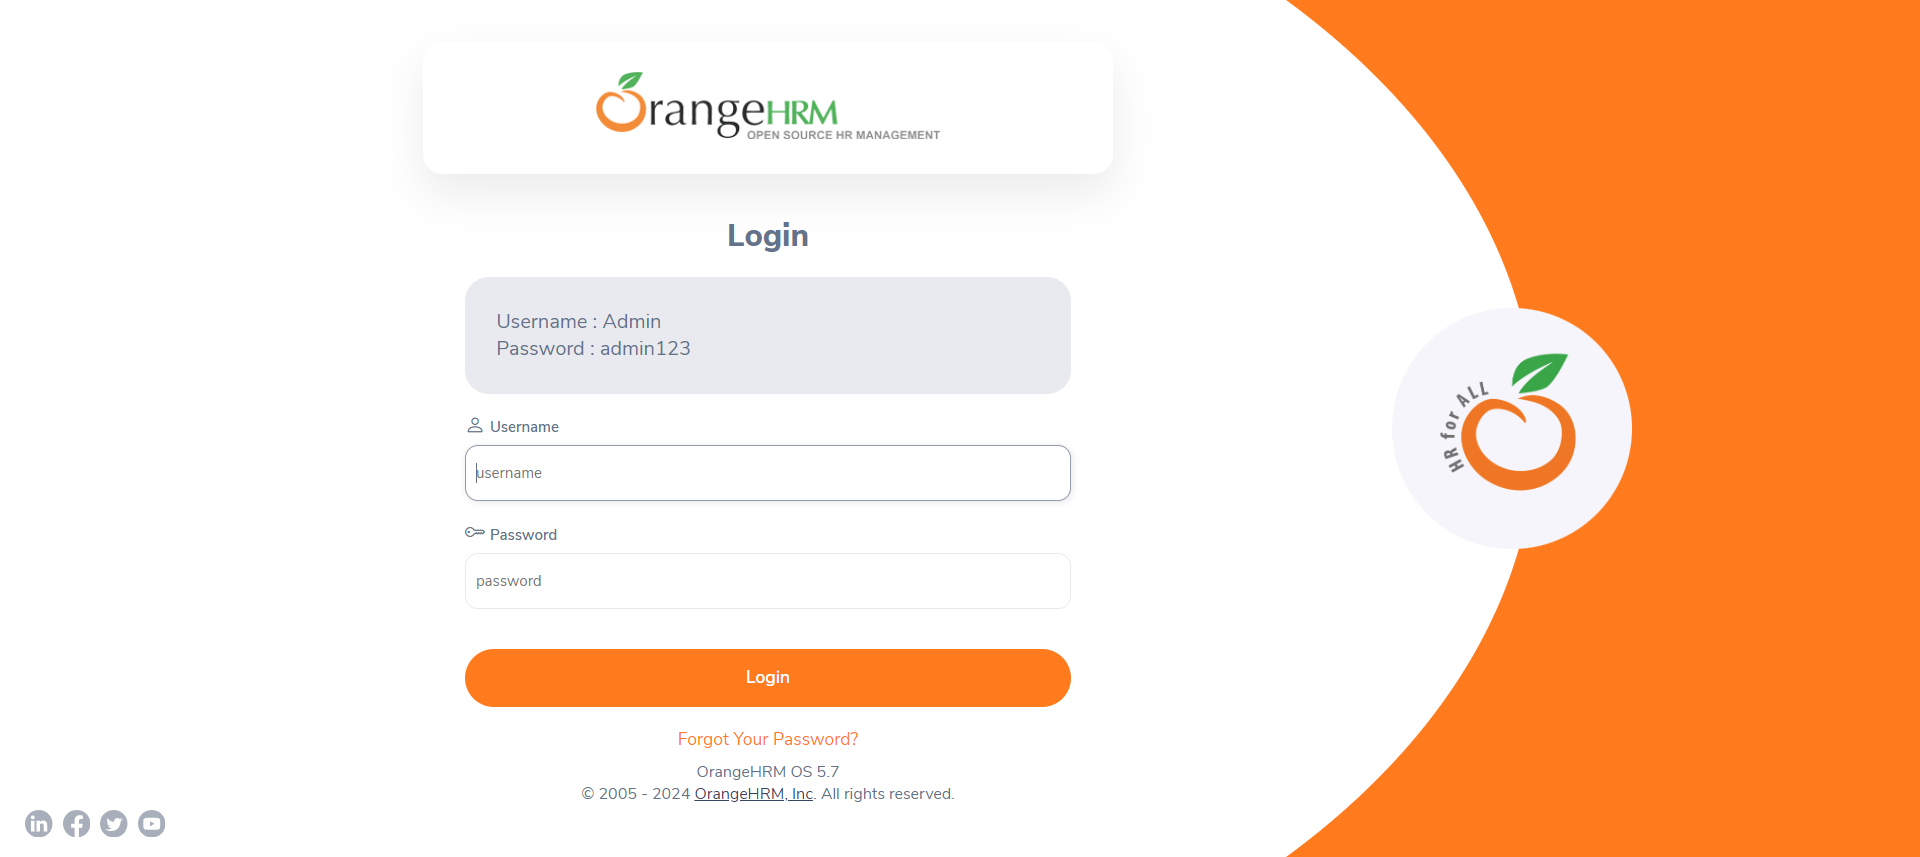
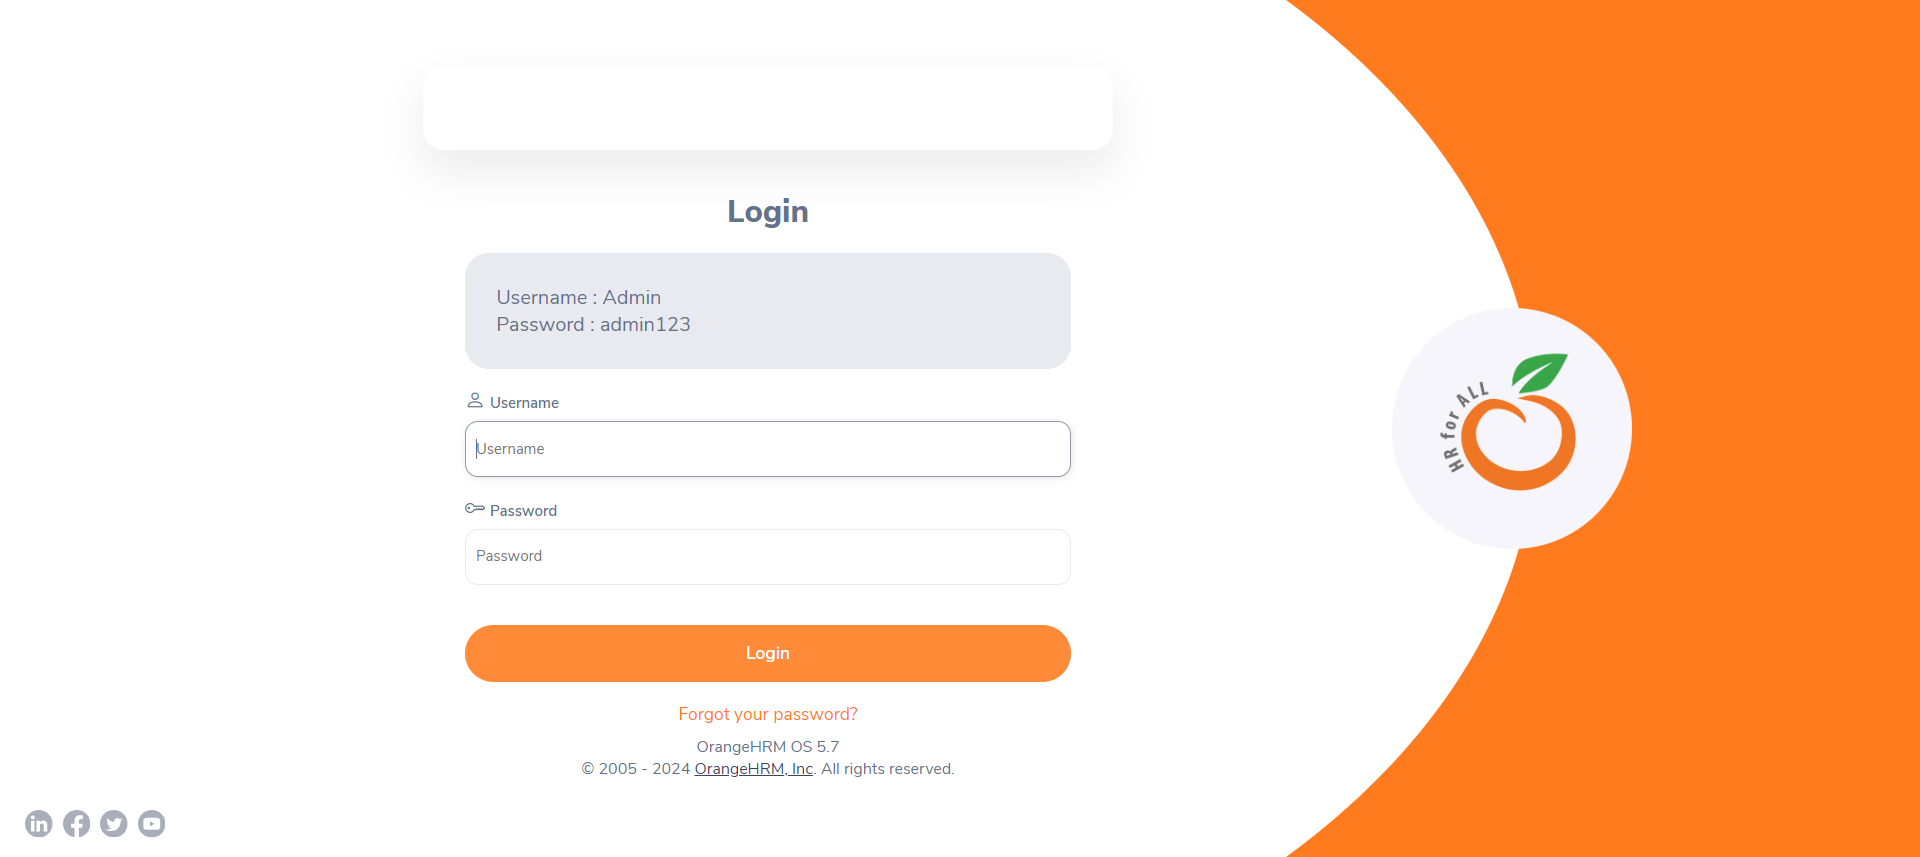
My 2nd commint

diff --git a/pageObjects/AddEmployee.py b/pageObjects/AddEmployee.py
@@ -8,8 +8,8 @@ class AddEmployee:
     # for clicking on add
     button_ADD_xpath = "//button[normalize-space()='Add']"
     button_Add_Employee = "//a[normalize-space()='Add Employee']"
-    text_fName_xpath = "//input[@placeholder='First name']"
-    text_mName_xpath = "//input[@placeholder='Middle name']"
+    text_fName_xpath = "//input[@placeholder='First Name']"
+    text_mName_xpath = "//input[@placeholder='Middle Name']"
     text_lName_xpath = "//input[@placeholder='Last Name']"
     input_empID_xpath = "//div[@class='oxd-input-group oxd-input-field-bottom-space']//div//input[@class='oxd-input oxd-input--active']"
     select_create_login_details_xpath = "//span[@class='oxd-switch-input oxd-switch-input--active --label-right']"
@@ -34,28 +34,28 @@ class AddEmployee:
         self.driver.find_element(By.XPATH, self.button_ADD_xpath).click()
 
     def click_on_add_employee_icon(self):
-        self.driver.find_element(By.XPATH, self.button_Add_Employee)
+        self.driver.find_element(By.XPATH, self.button_Add_Employee).click()
 
-    def enter_first_name(self):
-        self.driver.find_element(By.XPATH, self.text_fName_xpath).sendkeys()
+    def enter_first_name(self, first_name):
+        self.driver.find_element(By.XPATH, self.text_fName_xpath).send_keys(first_name)
 
-    def enter_mid_name(self):
-        self.driver.find_element(By.XPATH, self.text_mName_xpath).sendkeys()
+    def enter_mid_name(self, mid_name):
+        self.driver.find_element(By.XPATH, self.text_mName_xpath).send_keys(mid_name)
 
-    def enter_last_name(self):
-        self.driver.find_element(By.XPATH, self.text_lName_xpath).sendkeys()
+    def enter_last_name(self, last_name):
+        self.driver.find_element(By.XPATH, self.text_lName_xpath).send_keys(last_name)
 
     def emp_id(self):
         self.driver.find_element(By.XPATH, self.input_empID_xpath).clear()
 
     def enter_username(self):
-        self.driver.find_element(By.XPATH, self.text_username_xpath).sendkeys()
+        self.driver.find_element(By.XPATH, self.text_username_xpath).send_keys()
 
     def enter_password(self):
-        self.driver.find_element(By.XPATH, self.text_password_xpath).sendkeys()
+        self.driver.find_element(By.XPATH, self.text_password_xpath).send_keys()
 
     def enter_confirm_password(self):
-        self.driver.find_element(By.XPATH, self.text_confirm_password_xpath).sendkeys()
+        self.driver.find_element(By.XPATH, self.text_confirm_password_xpath).send_keys()
 
     def click_on_save_button(self):
         self.driver.find_element(By.XPATH, self.button_save_xpath).click()
@@ -64,7 +64,7 @@ class AddEmployee:
         self.driver.find_element(By.XPATH, self.emp_list_xpath).click()
 
     def enter_employee_name(self):
-        self.driver.find_element(By.XPATH, self.emp_name_xpath).sendkeys()
+        self.driver.find_element(By.XPATH, self.emp_name_xpath).send_keys()
 
     def click_on_search_icon(self):
         self.driver.find_element(By.XPATH, self.search_button_xpath).click()

diff --git a/testCases/test_add_employee_functionality.py b/testCases/test_add_employee_functionality.py
@@ -12,11 +12,17 @@ class TestAddEmployee:
     username = ReadConfig.get_username()
     password = ReadConfig.get_password()
 
+    # data of employee name
+    first_name = "Joy"
+    mid_name = "Maa"
+    last_name = "Tara"
+
+    @pytest.mark.regression
     def test_add_employee_feature_001(self, setup):
         self.driver = setup
         self.driver.get(self.baseURL)
-        self.driver.implicitly_wait(20)
         self.driver.maximize_window()
+        self.driver.implicitly_wait(20)
 
         self.obj = LoginPage(self.driver)
 
@@ -29,5 +35,16 @@ class TestAddEmployee:
 
         self.obj_addemp.click_on_pim()
         self.obj_addemp.click_on_add_employee_icon()
+        time.sleep(2)
+
+        self.obj_addemp.enter_first_name(self.first_name)
+        self.obj_addemp.enter_mid_name(self.mid_name)
+        self.obj_addemp.enter_last_name(self.last_name)
+
+        # cleare the employee id value
+        self.obj_addemp.emp_id()
+
+        self.obj_addemp.click_on_save_button()
+        time.sleep(2)
 
         self.driver.close()

diff --git a/pageObjects/LoginPage.py b/pageObjects/LoginPage.py
@@ -6,8 +6,8 @@ from selenium.webdriver.common.keys import Keys
 
 
 class LoginPage:
-    textbox_username_xpath = "//input[@placeholder='username']"
-    textbox_password_xpath = "//input[@placeholder='password']"
+    textbox_username_xpath = "//input[@placeholder='Username']"
+    textbox_password_xpath = "//input[@placeholder='Password']"
     button_login_xpath = "//button[normalize-space()='Login']"
     #button_logout_xpath_list = "//li[@class='--active oxd-userdropdown']"
     dashboard_heading_xpath = "//h6[normalize-space()='Dashboard']"

diff --git a/testCases/test_login.py b/testCases/test_login.py
@@ -15,6 +15,7 @@ class TestId001:
 
     logger = LogGen.loggen()
 
+    @pytest.mark.sanity
     def test_opening_the_url(self, setup):
         self.logger.info("----------------------Running <test_opening_the_url------------------------")
 
@@ -37,6 +38,7 @@ class TestId001:
             self.driver.close()
             # assert False
 
+    @pytest.mark.sanity
     def test_valid_loging(self, setup):
         self.logger.info("-------------------------------Login Test is Started-----------------------")
         self.driver = setup
